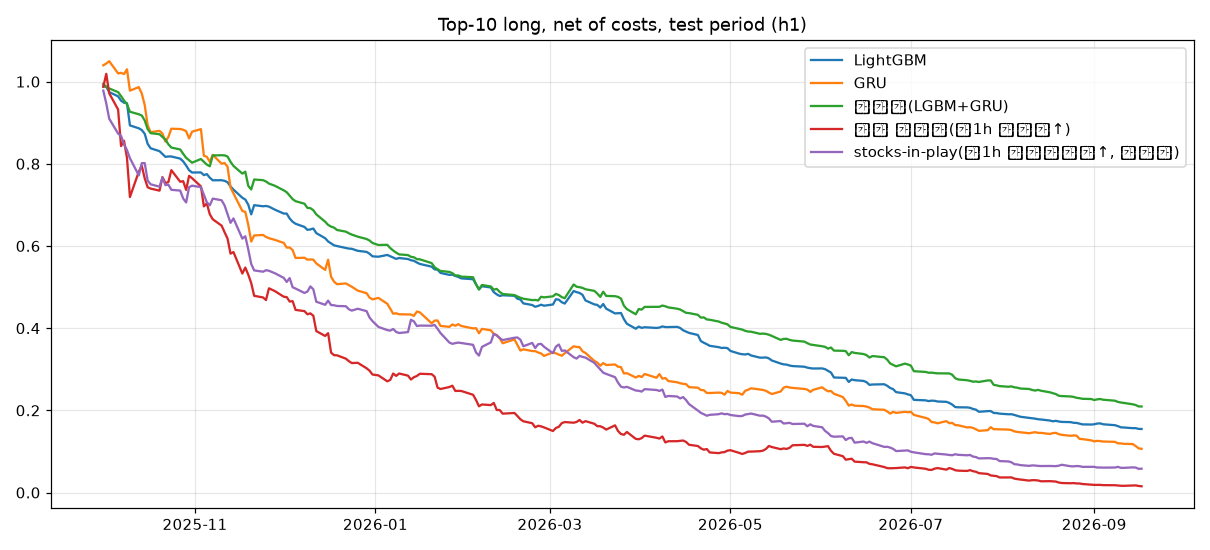
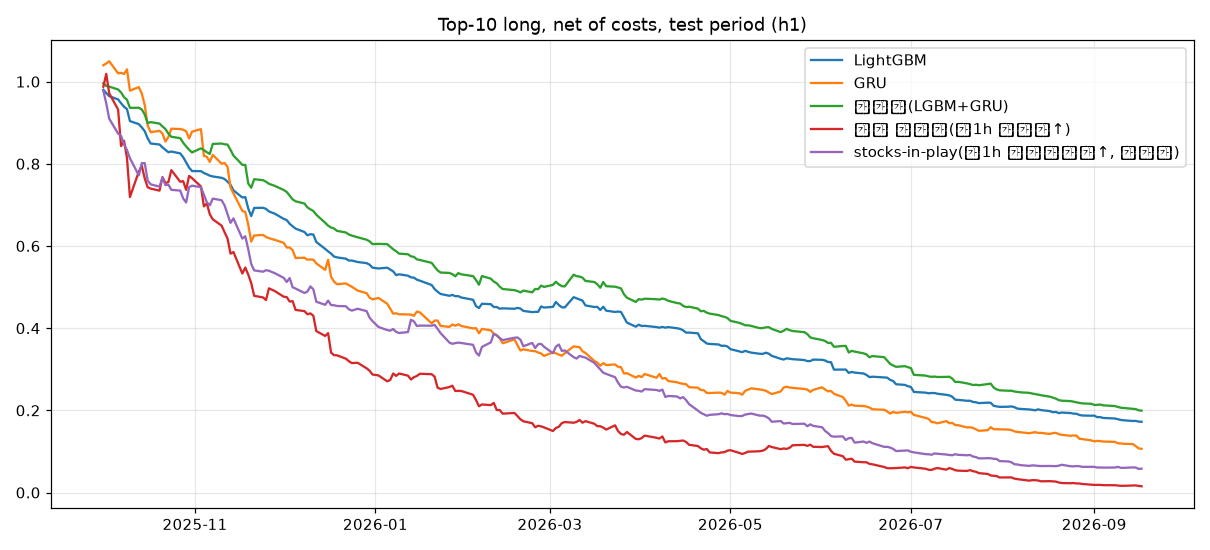
시간봉 배당 미조정 기준 통일: 갭 특징·다일 라벨을 시간봉으로 계산, 다일 보유 점검 스크립트
Claude-Session: https://claude.ai/code/session_01NSXH9bAKYc4gYm8CBYbLVP

Changed region(s): [[0.2446, 0.4018, 0.9479, 0.8036], [0.0917, 0.1545, 0.214, 0.34], [0.1835, 0.3709, 0.2446, 0.4018]]

diff --git a/scripts/dl_multiday.py b/scripts/dl_multiday.py
@@ -1,0 +1,66 @@
+"""저장된 예측(pred_<decision>.parquet)으로 다일 보유 성과를 점검한다: 유니버스 베이스라인, 십분위, 반기, 시총 구간, 이상치 의존도, 중첩 보정 누적.
+
+  python scripts/dl_multiday.py --decision open --out reports/dl_daytrading
+"""
+from __future__ import annotations
+
+import argparse
+from pathlib import Path
+
+import numpy as np
+import pandas as pd
+
+
+def top(df: pd.DataFrame, k: int) -> pd.DataFrame:
+    return df.sort_values(["date", "p_ens"], ascending=[True, False]).groupby("date").head(k)
+
+
+def line(t: pd.DataFrame, col: str, H: int) -> str:
+    t = t.dropna(subset=[col])
+    net = t[col] - t["cost"]
+    daily = net.groupby(t["date"]).mean()
+    cum = float((1 + daily / H).prod() - 1)
+    pnl = net.sort_values(ascending=False)
+    top10_share = float(pnl.head(10).sum() / pnl.sum()) if pnl.sum() > 0 else float("nan")
+    wo_top = float(net[net < pnl.head(int(len(net) * 0.02)).min()].mean()) if len(net) > 50 else float("nan")
+    return (f"{len(t)} | {(net > 0).mean() * 100:.1f}% | {t[col].mean() * 100:+.3f}% | {net.mean() * 100:+.3f}% | {net.median() * 100:+.3f}% | "
+            f"{cum * 100:+.1f}% | {top10_share * 100:.0f}% | {wo_top * 100:+.3f}%")
+
+
+HEAD = "| 구분 | 거래 | 승률 | 총평균 | 비용후 평균 | 중앙값 | 누적(중첩 보정) | 상위10건 손익 비중 | 상위 2% 제외 평균 |\n|---|---|---|---|---|---|---|---|---|"
+
+
+def main() -> None:
+    ap = argparse.ArgumentParser()
+    ap.add_argument("--decision", default="open")
+    ap.add_argument("--k", type=int, default=10)
+    ap.add_argument("--out", default="reports/dl_daytrading")
+    args = ap.parse_args()
+    out = Path(args.out)
+    pr = pd.read_parquet(out / f"pred_{args.decision}.parquet")
+    pr["cost"] = 2 * (np.where(pr["dec_px"] < 5.0, 0.005, 0.001) + 0.0025)
+    te = pr[pr.split == "test"].copy()
+    va = pr[pr.split == "val"].copy()
+    md = [f"# 같은 예측으로 다일 보유 — 점검 (결정 {args.decision}, 앙상블 상위 {args.k})\n",
+          "시간봉 종가 기준 라벨(배당 미조정 기준 통일). 비용후 = 왕복 0.7%(≥$5)/1.5%(동전주). 누적(중첩 보정) = 일 수익률/보유일수 로 근사. "
+          "상위10건 손익 비중 = 상위 10건 순손익 / 전체 순손익(100% 초과면 나머지 거래 합이 손실).\n"]
+    for col, H, label in (("y_rod", 1, "당일 종가"), ("y_nd", 1, "1일 보유"), ("y_3d", 3, "3세션 보유"), ("y_5d", 5, "5세션 보유")):
+        md.append(f"## {label} ({col})\n\n{HEAD}")
+        md.append(f"| 테스트 전체 | {line(top(te, args.k), col, H)} |")
+        md.append(f"| 테스트 전반(~2026-03-14) | {line(top(te[te.date < '2026-03-15'], args.k), col, H)} |")
+        md.append(f"| 테스트 후반(2026-03-15~) | {line(top(te[te.date >= '2026-03-15'], args.k), col, H)} |")
+        md.append(f"| 검증(2025-07~09) | {line(top(va, args.k), col, H)} |")
+        mc = np.exp(te["log_mcap"])
+        for lab, lo, hi in (("<$300M", 0, 3e8), ("$300M~$2B", 3e8, 2e9), ("$2B~$10B", 2e9, 1e10), (">$10B", 1e10, 1e15)):
+            sub = te[(mc >= lo) & (mc < hi)]
+            if len(sub) > 2000:
+                md.append(f"| 테스트 시총 {lab} | {line(top(sub, args.k), col, H)} |")
+        base = te[col].mean()
+        md.append(f"\n유니버스 평균(테스트, 베이스라인): {base * 100:+.3f}% · 십분위별 평균: " + ", ".join(
+            f"{d}:{v * 100:+.2f}%" for d, v in te.assign(dec=te.groupby('date')['p_ens'].rank(pct=True).mul(10).clip(upper=9.999).astype(int)).groupby('dec')[col].mean().items()) + "\n")
+    (out / f"multiday_{args.decision}.md").write_text("\n".join(md), encoding="utf-8")
+    print("->", out / f"multiday_{args.decision}.md")
+
+
+if __name__ == "__main__":
+    main()

diff --git a/scripts/dl_train.py b/scripts/dl_train.py
@@ -125,10 +125,13 @@ def main() -> None:
         md.append(f"| {label} | {port['n_trades']} | {port['win'] * 100:.1f}% | {port['gross_mean'] * 100:+.3f}% | {port['net_mean'] * 100:+.3f}% | {port['total_return'] * 100:+.1f}% |")
 
     # ---- 다른 보유기간 (같은 예측으로 오버나잇/1일 보유 시)
-    md.append("\n## 같은 예측을 다른 청산에 적용 (테스트, 앙상블 상위 K)\n\n| 청산 | 거래 | 승률 | 총평균 | 비용후 평균 | 누적수익 |\n|---|---|---|---|---|---|")
-    for label, col in (("당일 종가(데이트레이딩)", "y_rod"), ("다음날 같은 시점(1일 보유)", "y_nd"), ("3세션 보유(t+2 종가)", "y_3d"), ("5세션 보유(t+4 종가)", "y_5d")):
+    md.append("\n## 같은 예측을 다른 청산에 적용 (테스트, 앙상블 상위 K)\n\n다일 보유의 누적은 자본을 보유일수(H)만큼의 코호트로 나눠 중첩 보유한다고 보고 일 수익률/H 로 근사(중첩 보정). "
+              "유니버스 평균 = 같은 기간 아무 종목이나 샀을 때의 평균(베이스라인).\n\n| 청산 | 거래 | 승률 | 총평균 | 비용후 평균 | 유니버스 평균 | 누적(중첩 보정) |\n|---|---|---|---|---|---|---|")
+    for label, col, H in (("당일 종가(데이트레이딩)", "y_rod", 1), ("다음날 같은 시점(1일 보유)", "y_nd", 1), ("3세션 보유(t+2 종가)", "y_3d", 3), ("5세션 보유(t+4 종가)", "y_5d", 5)):
         port = topk_portfolio(k_te, p_ens[te], col, args.k, cost_rt[te])
-        md.append(f"| {label} | {port['n_trades']} | {port['win'] * 100:.1f}% | {port['gross_mean'] * 100:+.3f}% | {port['net_mean'] * 100:+.3f}% | {port['total_return'] * 100:+.1f}% |")
+        cum = float((1 + port["daily"]["net"] / H).prod() - 1)
+        base = float(np.nanmean(k_te[col].to_numpy()))
+        md.append(f"| {label} | {port['n_trades']} | {port['win'] * 100:.1f}% | {port['gross_mean'] * 100:+.3f}% | {port['net_mean'] * 100:+.3f}% | {base * 100:+.3f}% | {cum * 100:+.1f}% |")
 
     # ---- 손익분기 비용
     ens_te = topk_portfolio(k_te, p_ens[te], "y_rod", args.k, np.zeros(te.sum()))

diff --git a/quant/dl/dataset.py b/quant/dl/dataset.py
@@ -131,14 +131,19 @@ def build_dataset(decision: str = "h1", seq_len: int = 35, min_adv: float = 2e6,
     y_on = np.where(last_of_sym, np.nan, next_open / c[:, -1] - 1.0)
     prev_close = np.full(n, np.nan)
     prev_close[ok_daily] = stocks["close"].to_numpy()[date_idx[ok_daily] - 1, sym_idx[ok_daily]]
-    # 다일 보유 라벨: 결정가 -> t+2 / t+4 거래일 종가 (3/5 세션 보유)
-    dclose = stocks["close"].to_numpy()
+    # 다일 보유 라벨: 결정가 -> t+2 / t+4 거래일 마지막 봉 종가 (같은 시간봉 기준, 같은 심볼 안에서만)
+    sym_arr = key["symbol"].to_numpy()
     y_3d, y_5d = np.full(n, np.nan), np.full(n, np.nan)
     for arr_out, off in ((y_3d, 2), (y_5d, 4)):
-        okk = ok_daily & (date_idx + off < dclose.shape[0])
-        arr_out[okk] = dclose[date_idx[okk] + off, sym_idx[okk]] / dec_px[okk] - 1.0
+        fut = np.roll(c[:, -1], -off)
+        same = np.roll(sym_arr, -off) == sym_arr
+        same[-off:] = False
+        arr_out[same] = fut[same] / dec_px[same] - 1.0
     ctx = pd.DataFrame(index=key.index)
-    ctx["gap"] = np.clip(o[:, 0] / prev_close - 1.0, -0.5, 0.5)
+    # 갭은 같은 기준(시간봉)의 전일 마지막 봉 종가로 계산 — 시간봉은 배당 미조정이라 일봉 조정종가와 섞으면 배당주가 왜곡된다
+    prev_close_h = np.roll(c[:, -1], 1)
+    prev_close_h[sym_start] = np.nan
+    ctx["gap"] = np.clip(o[:, 0] / prev_close_h - 1.0, -0.5, 0.5)
     if decision == "h1":
         ctx["h1_ret"] = np.clip(c[:, 0] / o[:, 0] - 1.0, -0.5, 0.5)
         # 첫 1시간 거래량 / 직전 14일 첫 1시간 평균 거래량 (stocks in play)

diff --git a/reports/dl_daytrading/README_h1.md b/reports/dl_daytrading/README_h1.md
@@ -9,9 +9,9 @@
 | 모델 | IC 평균 | IC t | IC>0 일 비율 | 십분위 스프레드(상-하) | 상위10 거래/승률/총평균/비용후평균/누적수익/샤프/MDD |
 |---|---|---|---|---|---|
 | **검증** | | | | | |
-| LightGBM | +0.0279 | +1.8 | 63% | +0.02% (+0.08/+0.06) | 590 / 27.5% / +0.095% / -0.615% / -30.6% / -13.57 / -30.4% |
+| LightGBM | +0.0271 | +1.7 | 64% | +0.05% (+0.08/+0.03) | 590 / 27.8% / +0.183% / -0.526% / -26.9% / -10.21 / -26.7% |
 | GRU | +0.0377 | +2.1 | 61% | +0.12% (+0.09/-0.04) | 590 / 26.4% / +0.200% / -0.565% / -29.0% / -5.50 / -28.5% |
-| 앙상블(LGBM+GRU) | +0.0349 | +2.0 | 59% | +0.07% (+0.08/+0.01) | 590 / 21.5% / +0.172% / -0.534% / -27.2% / -13.41 / -26.1% |
+| 앙상블(LGBM+GRU) | +0.0348 | +2.0 | 61% | +0.08% (+0.09/+0.01) | 590 / 22.7% / +0.255% / -0.450% / -23.5% / -8.82 / -22.4% |
 | 장중 모멘텀(첫1h 수익률↑) | -0.0045 | -0.3 | 51% | +0.07% (+0.14/+0.07) | 590 / 42.2% / -0.138% / -1.043% / -47.8% / -5.07 / -52.9% |
 | stocks-in-play(첫1h 상대거래량↑, 양봉만) | +0.0033 | +0.4 | 54% | -0.36% (+0.12/+0.48) | 590 / 38.5% / +0.014% / -0.762% / -37.2% / -5.49 / -47.0% |
 | 갭 페이드(갭↓) | -0.0045 | -0.3 | 53% | -0.01% (+0.01/+0.02) | 590 / 31.9% / -1.070% / -1.908% / -68.7% / -10.61 / -68.8% |
@@ -19,9 +19,9 @@
 | 20일 모멘텀(↑) | +0.0096 | +0.9 | 56% | +0.06% (+0.10/+0.04) | 590 / 38.5% / -0.709% / -1.655% / -63.9% / -7.71 / -64.7% |
 | 52주 고가 근접(↑) | +0.0219 | +1.2 | 58% | +0.04% (+0.05/+0.01) | 590 / 23.1% / +0.095% / -0.625% / -31.0% / -18.58 / -30.9% |
 | **테스트** | | | | | |
-| LightGBM | +0.0323 | +3.8 | 60% | +0.18% (-0.01/-0.19) | 2410 / 27.2% / -0.044% / -0.764% / -84.5% / -10.31 / -84.3% |
+| LightGBM | +0.0343 | +4.0 | 62% | +0.20% (-0.01/-0.21) | 2410 / 26.3% / -0.001% / -0.720% / -82.8% / -9.93 / -82.4% |
 | GRU | +0.0346 | +4.1 | 59% | +0.21% (-0.01/-0.22) | 2410 / 31.3% / -0.074% / -0.903% / -89.4% / -6.76 / -89.9% |
-| 앙상블(LGBM+GRU) | +0.0360 | +4.1 | 60% | +0.21% (-0.00/-0.21) | 2410 / 23.4% / +0.076% / -0.640% / -79.1% / -8.83 / -78.9% |
+| 앙상블(LGBM+GRU) | +0.0370 | +4.2 | 61% | +0.23% (-0.00/-0.23) | 2410 / 23.6% / +0.058% / -0.660% / -80.1% / -9.05 / -80.0% |
 | 장중 모멘텀(첫1h 수익률↑) | -0.0314 | -4.4 | 38% | -0.09% (-0.11/-0.02) | 2410 / 38.9% / -0.743% / -1.644% / -98.5% / -6.73 / -98.5% |
 | stocks-in-play(첫1h 상대거래량↑, 양봉만) | -0.0213 | -4.0 | 39% | +0.10% (-0.08/-0.17) | 2410 / 37.6% / -0.351% / -1.141% / -94.2% / -7.11 / -94.1% |
 | 갭 페이드(갭↓) | -0.0067 | -0.7 | 47% | +0.01% (-0.07/-0.08) | 2410 / 40.5% / -0.014% / -0.939% / -91.2% / -4.19 / -91.8% |
@@ -29,40 +29,53 @@
 | 20일 모멘텀(↑) | +0.0041 | +0.6 | 52% | +0.11% (-0.02/-0.14) | 2410 / 38.5% / -0.678% / -1.590% / -98.2% / -6.67 / -98.3% |
 | 52주 고가 근접(↑) | +0.0147 | +1.5 | 56% | +0.08% (-0.06/-0.14) | 2410 / 22.2% / -0.056% / -0.769% / -84.5% / -17.60 / -84.4% |
 
+## 상위 N 스윕 (테스트, 앙상블, 당일 종가 청산)
+
+| N | 거래 | 승률 | 총평균/거래 | 비용후 평균 | 누적(비용후) | 손익분기 왕복비용 |
+|---|---|---|---|---|---|---|
+| 1 | 241 | 24.5% | -0.004% | -0.727% | -83.6% | -0.00% |
+| 3 | 723 | 23.4% | +0.068% | -0.650% | -79.8% | 0.07% |
+| 5 | 1205 | 23.8% | +0.080% | -0.642% | -79.2% | 0.08% |
+| 10 | 2410 | 23.6% | +0.058% | -0.660% | -80.1% | 0.06% |
+| 20 | 4820 | 23.5% | +0.033% | -0.683% | -81.1% | 0.03% |
+| 50 | 12050 | 23.6% | +0.017% | -0.701% | -81.8% | 0.02% |
+
 ## 시총 구간별 (테스트, 앙상블 상위 K)
 
 | 시총 구간 | 거래 | 승률 | 총평균 | 비용후 평균 | 누적수익 |
 |---|---|---|---|---|---|
-| <$300M | 2410 | 33.1% | +0.207% | -0.707% | -82.3% |
-| $300M~$2B | 2410 | 33.0% | +0.052% | -0.691% | -81.5% |
-| $2B~$10B | 2410 | 29.2% | +0.025% | -0.679% | -81.0% |
-| >$10B | 2410 | 22.2% | +0.046% | -0.654% | -79.7% |
+| <$300M | 2410 | 34.7% | +0.239% | -0.674% | -81.0% |
+| $300M~$2B | 2410 | 34.2% | +0.110% | -0.633% | -78.7% |
+| $2B~$10B | 2410 | 28.8% | +0.031% | -0.675% | -80.8% |
+| >$10B | 2410 | 22.6% | +0.042% | -0.658% | -79.9% |
 
 ## 같은 예측을 다른 청산에 적용 (테스트, 앙상블 상위 K)
 
 | 청산 | 거래 | 승률 | 총평균 | 비용후 평균 | 누적수익 |
 |---|---|---|---|---|---|
-| 당일 종가(데이트레이딩) | 2410 | 23.4% | +0.076% | -0.640% | -79.1% |
-| 다음날 같은 시점(1일 보유) | 2400 | 35.5% | +0.267% | -0.450% | -67.6% |
+| 당일 종가(데이트레이딩) | 2410 | 23.6% | +0.058% | -0.660% | -80.1% |
+| 다음날 같은 시점(1일 보유) | 2400 | 34.9% | +0.243% | -0.476% | -69.5% |
+| 3세션 보유(t+2 종가) | 2390 | 29.7% | -0.181% | -0.900% | -90.0% |
+| 5세션 보유(t+4 종가) | 2370 | 33.6% | +0.025% | -0.694% | -84.2% |
 
-**손익분기 왕복 비용**(앙상블 상위 10, 테스트): 총평균 +0.076%/거래 — 이보다 왕복 비용이 크면 손실. 국내 증권사 기본 수수료(0.25%x2=0.5%)+슬리피지(0.2%)=0.7%.
+**손익분기 왕복 비용**(앙상블 상위 10, 테스트): 총평균 +0.058%/거래 — 이보다 왕복 비용이 크면 손실. 국내 증권사 기본 수수료(0.25%x2=0.5%)+슬리피지(0.2%)=0.7%.
 
 ## LightGBM 특징 중요도 (gain 상위 15)
 
 | 특징 | gain |
 |---|---|
-| spy_h1 | 2,851 |
-| spy_prev | 2,124 |
-| atr_pct | 967 |
-| lr_m1 | 530 |
-| spy_above200 | 335 |
-| from_high52 | 280 |
-| h1_ret | 277 |
-| rng_mean35 | 250 |
-| lr_sum_14_7 | 243 |
-| prev_ret | 215 |
-| log_mcap | 188 |
-| rng_mean7 | 182 |
-| gap | 168 |
-| lr_sum_21_14 | 163 |
-| log_adv | 142 |
+| spy_h1 | 7,463 |
+| spy_prev | 6,787 |
+| atr_pct | 2,631 |
+| lr_m1 | 1,369 |
+| h1_ret | 852 |
+| spy_above200 | 773 |
+| from_high52 | 737 |
+| rng_mean35 | 730 |
+| lr_sum_14_7 | 700 |
+| prev_ret | 528 |
+| log_mcap | 479 |
+| gap | 438 |
+| rng_mean7 | 415 |
+| ret20 | 408 |
+| ret60 | 395 |

diff --git a/reports/dl_daytrading/README_open.md b/reports/dl_daytrading/README_open.md
@@ -9,56 +9,69 @@
 | 모델 | IC 평균 | IC t | IC>0 일 비율 | 십분위 스프레드(상-하) | 상위10 거래/승률/총평균/비용후평균/누적수익/샤프/MDD |
 |---|---|---|---|---|---|
 | **검증** | | | | | |
-| LightGBM | +0.0344 | +1.9 | 61% | +0.23% (+0.03/-0.20) | 590 / 36.3% / +0.121% / -0.600% / -30.2% / -7.41 / -29.5% |
+| LightGBM | +0.0382 | +2.1 | 61% | +0.29% (+0.07/-0.21) | 590 / 36.4% / +0.059% / -0.650% / -32.4% / -6.96 / -30.8% |
 | GRU | +0.0386 | +1.8 | 61% | +0.22% (+0.07/-0.15) | 590 / 32.2% / -0.055% / -0.841% / -40.1% / -5.90 / -36.9% |
-| 앙상블(LGBM+GRU) | +0.0374 | +1.8 | 64% | +0.20% (+0.03/-0.16) | 590 / 34.2% / +0.047% / -0.657% / -32.6% / -7.88 / -32.4% |
+| 앙상블(LGBM+GRU) | +0.0394 | +1.9 | 64% | +0.22% (+0.05/-0.17) | 590 / 34.9% / +0.100% / -0.611% / -30.8% / -6.89 / -31.0% |
 | 갭 페이드(갭↓) | +0.0093 | +0.6 | 59% | +0.17% (+0.09/-0.08) | 590 / 38.1% / -1.076% / -1.913% / -69.2% / -8.51 / -69.7% |
 | 단기 반전(전일 수익률↓) | +0.0176 | +1.3 | 59% | +0.00% (-0.07/-0.07) | 590 / 35.9% / -1.855% / -2.723% / -81.3% / -10.98 / -81.1% |
 | 20일 모멘텀(↑) | +0.0077 | +0.7 | 51% | +0.05% (+0.01/-0.04) | 590 / 39.0% / -1.311% / -2.258% / -75.7% / -7.79 / -78.2% |
 | 52주 고가 근접(↑) | +0.0310 | +1.4 | 63% | +0.09% (+0.05/-0.04) | 590 / 28.5% / +0.094% / -0.626% / -31.1% / -13.08 / -31.0% |
 | **테스트** | | | | | |
-| LightGBM | +0.0372 | +3.9 | 61% | +0.48% (+0.10/-0.38) | 2410 / 41.0% / +0.351% / -0.386% / -61.9% / -3.67 / -62.8% |
+| LightGBM | +0.0404 | +4.0 | 61% | +0.50% (+0.11/-0.40) | 2410 / 42.8% / +0.435% / -0.288% / -52.1% / -2.51 / -53.3% |
 | GRU | +0.0405 | +4.1 | 63% | +0.48% (+0.09/-0.39) | 2410 / 38.0% / +0.175% / -0.613% / -79.3% / -3.45 / -81.3% |
-| 앙상블(LGBM+GRU) | +0.0400 | +4.0 | 62% | +0.49% (+0.09/-0.39) | 2410 / 37.8% / +0.360% / -0.355% / -58.9% / -3.51 / -59.9% |
+| 앙상블(LGBM+GRU) | +0.0416 | +4.1 | 61% | +0.50% (+0.10/-0.40) | 2410 / 38.8% / +0.351% / -0.368% / -60.7% / -3.02 / -61.3% |
 | 갭 페이드(갭↓) | +0.0235 | +2.5 | 59% | +0.27% (+0.08/-0.20) | 2410 / 44.4% / -0.043% / -0.968% / -92.3% / -3.61 / -92.8% |
 | 단기 반전(전일 수익률↓) | +0.0017 | +0.2 | 51% | -0.11% (-0.19/-0.09) | 2410 / 38.0% / -1.770% / -2.694% / -99.9% / -9.31 / -99.9% |
 | 20일 모멘텀(↑) | -0.0031 | -0.4 | 49% | +0.13% (-0.06/-0.19) | 2410 / 38.6% / -1.143% / -2.053% / -99.5% / -6.82 / -99.5% |
 | 52주 고가 근접(↑) | +0.0126 | +1.2 | 54% | +0.14% (-0.04/-0.17) | 2410 / 27.1% / -0.076% / -0.790% / -85.4% / -13.21 / -85.3% |
 
+## 상위 N 스윕 (테스트, 앙상블, 당일 종가 청산)
+
+| N | 거래 | 승률 | 총평균/거래 | 비용후 평균 | 누적(비용후) | 손익분기 왕복비용 |
+|---|---|---|---|---|---|---|
+| 1 | 241 | 45.6% | +0.596% | -0.130% | -52.8% | 0.60% |
+| 3 | 723 | 42.0% | +0.642% | -0.077% | -28.6% | 0.64% |
+| 5 | 1205 | 41.1% | +0.463% | -0.255% | -50.0% | 0.46% |
+| 10 | 2410 | 38.8% | +0.351% | -0.368% | -60.7% | 0.35% |
+| 20 | 4820 | 38.0% | +0.331% | -0.384% | -61.5% | 0.33% |
+| 50 | 12050 | 35.5% | +0.234% | -0.479% | -69.1% | 0.23% |
+
 ## 시총 구간별 (테스트, 앙상블 상위 K)
 
 | 시총 구간 | 거래 | 승률 | 총평균 | 비용후 평균 | 누적수익 |
 |---|---|---|---|---|---|
-| <$300M | 2410 | 29.4% | +0.404% | -0.490% | -70.7% |
-| $300M~$2B | 2410 | 42.1% | +0.505% | -0.242% | -46.7% |
-| $2B~$10B | 2410 | 40.0% | +0.377% | -0.329% | -56.4% |
-| >$10B | 2410 | 34.1% | +0.193% | -0.508% | -71.4% |
+| <$300M | 2410 | 29.7% | +0.354% | -0.533% | -73.5% |
+| $300M~$2B | 2410 | 42.7% | +0.490% | -0.264% | -49.8% |
+| $2B~$10B | 2410 | 40.6% | +0.420% | -0.287% | -51.8% |
+| >$10B | 2410 | 34.4% | +0.149% | -0.552% | -74.3% |
 
 ## 같은 예측을 다른 청산에 적용 (테스트, 앙상블 상위 K)
 
 | 청산 | 거래 | 승률 | 총평균 | 비용후 평균 | 누적수익 |
 |---|---|---|---|---|---|
-| 당일 종가(데이트레이딩) | 2410 | 37.8% | +0.360% | -0.355% | -58.9% |
-| 다음날 같은 시점(1일 보유) | 2400 | 42.1% | +0.425% | -0.290% | -52.1% |
+| 당일 종가(데이트레이딩) | 2410 | 38.8% | +0.351% | -0.368% | -60.7% |
+| 다음날 같은 시점(1일 보유) | 2400 | 43.2% | +0.403% | -0.316% | -55.7% |
+| 3세션 보유(t+2 종가) | 2390 | 43.6% | +1.678% | +0.959% | +669.8% |
+| 5세션 보유(t+4 종가) | 2370 | 45.9% | +1.810% | +1.090% | +888.4% |
 
-**손익분기 왕복 비용**(앙상블 상위 10, 테스트): 총평균 +0.360%/거래 — 이보다 왕복 비용이 크면 손실. 국내 증권사 기본 수수료(0.25%x2=0.5%)+슬리피지(0.2%)=0.7%.
+**손익분기 왕복 비용**(앙상블 상위 10, 테스트): 총평균 +0.351%/거래 — 이보다 왕복 비용이 크면 손실. 국내 증권사 기본 수수료(0.25%x2=0.5%)+슬리피지(0.2%)=0.7%.
 
 ## LightGBM 특징 중요도 (gain 상위 15)
 
 | 특징 | gain |
 |---|---|
-| spy_prev | 4,291 |
-| atr_pct | 1,209 |
-| gap | 1,182 |
-| rng_mean35 | 1,017 |
-| from_high52 | 331 |
-| spy_above200 | 302 |
-| lr_m7 | 279 |
-| rng_mean7 | 243 |
-| volz_mean7 | 213 |
-| log_mcap | 170 |
-| log_adv | 148 |
-| lr_sum_14_7 | 132 |
-| volz_last | 129 |
-| lr_m4 | 126 |
-| ret20 | 117 |
+| spy_prev | 11,129 |
+| gap | 3,188 |
+| atr_pct | 2,808 |
+| rng_mean35 | 2,630 |
+| from_high52 | 862 |
+| rng_mean7 | 816 |
+| spy_above200 | 657 |
+| lr_m7 | 653 |
+| volz_mean7 | 470 |
+| lr_m4 | 393 |
+| log_mcap | 374 |
+| log_adv | 373 |
+| volz_last | 344 |
+| lr_sum_14_7 | 343 |
+| ret20 | 307 |

diff --git a/reports/dl_daytrading/exits_open.md b/reports/dl_daytrading/exits_open.md
@@ -1,0 +1,15 @@
+# ML 상위 10 종목 + 장중 청산 규칙 (테스트 2025-10-01~, 결정 시점 open, LightGBM 예측)
+
+거래 2410건. 비용후 = 수수료 편도 0.25%x2 + 슬리피지. 손절/익절/트레일은 1시간봉 저가/고가로 판정(같은 봉이면 손절 우선). 시가 진입(open)은 첫 봉부터, 10:30 진입(h1)은 둘째 봉부터 판정.
+
+| 청산 규칙 | 승률 | 총평균/거래 | 비용후 평균/거래 | 중앙값 | 손절 비율 | 익절 비율 | 누적(비용후, 일별 동일비중) | 최대낙폭 |
+|---|---|---|---|---|---|---|---|---|
+| 종가 청산 | 42.8% | +0.435% | -0.289% | -0.402% | 0% | 0% | -52.2% | -53.4% |
+| 손절 2% | 33.8% | +0.361% | -0.363% | -1.179% | 42% | 0% | -59.2% | -60.0% |
+| 손절 3% | 37.9% | +0.358% | -0.366% | -0.751% | 29% | 0% | -59.9% | -60.7% |
+| 손절 5% | 41.2% | +0.380% | -0.344% | -0.497% | 14% | 0% | -57.9% | -58.6% |
+| 손절 3% + 익절 5% | 39.4% | +0.246% | -0.478% | -0.665% | 29% | 13% | -69.1% | -69.5% |
+| 손절 3% + 익절 10% | 38.0% | +0.330% | -0.395% | -0.749% | 29% | 4% | -62.5% | -63.2% |
+| 트레일 3% | 36.9% | +0.324% | -0.400% | -0.790% | 0% | 0% | -62.9% | -63.6% |
+| 트레일 5% | 40.7% | +0.355% | -0.369% | -0.529% | 0% | 0% | -60.2% | -60.9% |
+| 손절 3% + 트레일 5% | 38.0% | +0.328% | -0.396% | -0.737% | 28% | 0% | -62.6% | -63.3% |

diff --git a/reports/dl_daytrading/exits_h1.md b/reports/dl_daytrading/exits_h1.md
@@ -1,0 +1,15 @@
+# ML 상위 10 종목 + 장중 청산 규칙 (테스트 2025-10-01~, 결정 시점 h1, LightGBM 예측)
+
+거래 2410건. 비용후 = 수수료 편도 0.25%x2 + 슬리피지. 손절/익절/트레일은 1시간봉 저가/고가로 판정(같은 봉이면 손절 우선). 시가 진입(open)은 첫 봉부터, 10:30 진입(h1)은 둘째 봉부터 판정.
+
+| 청산 규칙 | 승률 | 총평균/거래 | 비용후 평균/거래 | 중앙값 | 손절 비율 | 익절 비율 | 누적(비용후, 일별 동일비중) | 최대낙폭 |
+|---|---|---|---|---|---|---|---|---|
+| 종가 청산 | 27.2% | -0.044% | -0.764% | -0.759% | 0% | 0% | -84.5% | -84.3% |
+| 손절 2% | 25.2% | -0.020% | -0.741% | -0.837% | 24% | 0% | -83.5% | -83.4% |
+| 손절 3% | 26.6% | -0.034% | -0.754% | -0.776% | 13% | 0% | -84.1% | -83.9% |
+| 손절 5% | 27.1% | -0.049% | -0.769% | -0.760% | 4% | 0% | -84.7% | -84.5% |
+| 손절 3% + 익절 5% | 26.9% | -0.024% | -0.745% | -0.774% | 13% | 4% | -83.7% | -83.5% |
+| 손절 3% + 익절 10% | 26.6% | -0.033% | -0.753% | -0.776% | 13% | 0% | -84.1% | -83.9% |
+| 트레일 3% | 26.2% | -0.034% | -0.755% | -0.799% | 0% | 0% | -84.1% | -83.9% |
+| 트레일 5% | 27.0% | -0.047% | -0.768% | -0.762% | 0% | 0% | -84.6% | -84.4% |
+| 손절 3% + 트레일 5% | 26.5% | -0.037% | -0.757% | -0.776% | 12% | 0% | -84.2% | -84.0% |
